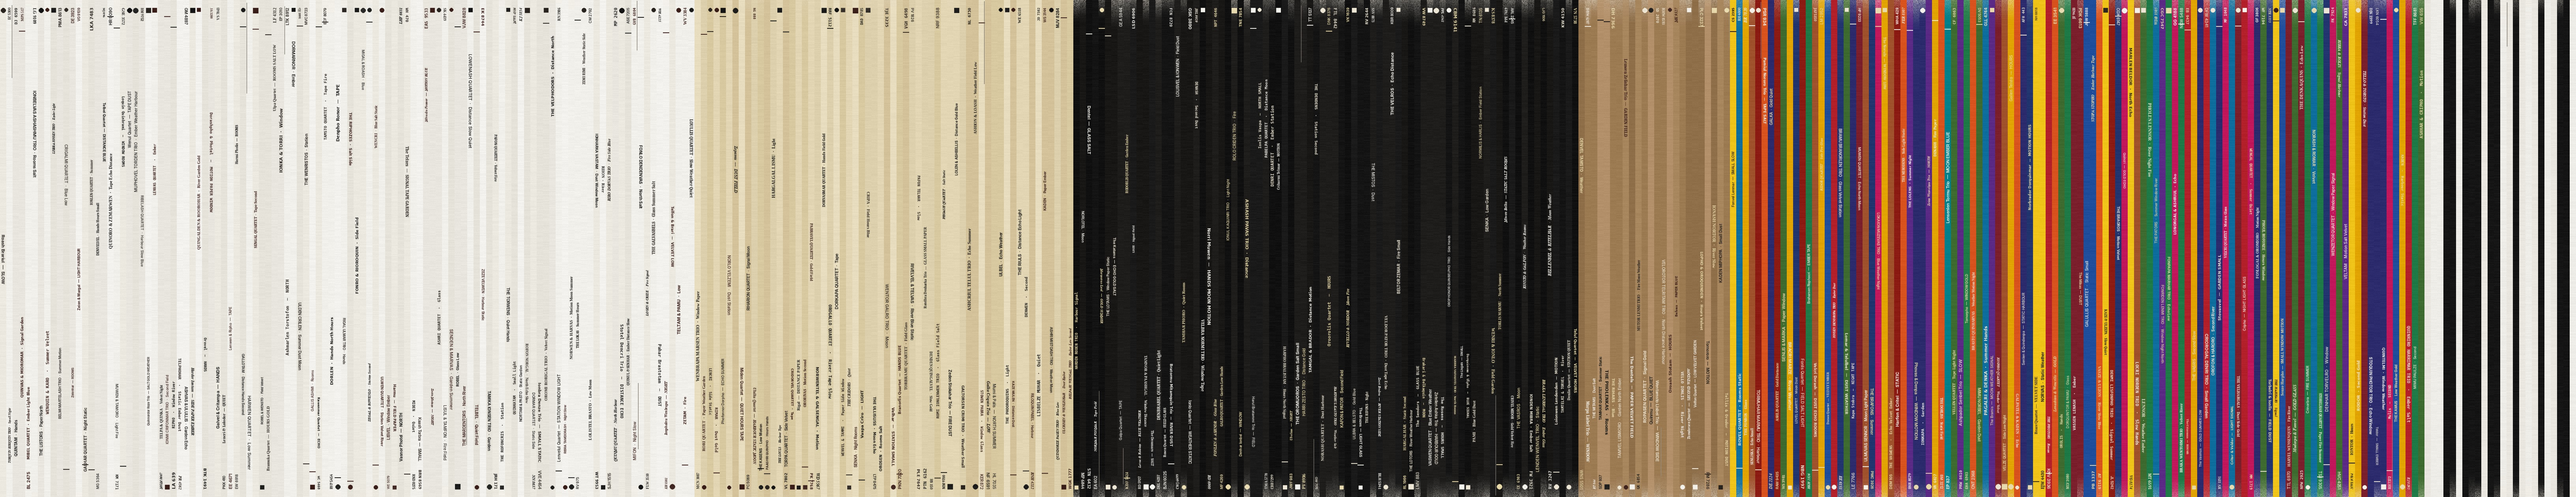
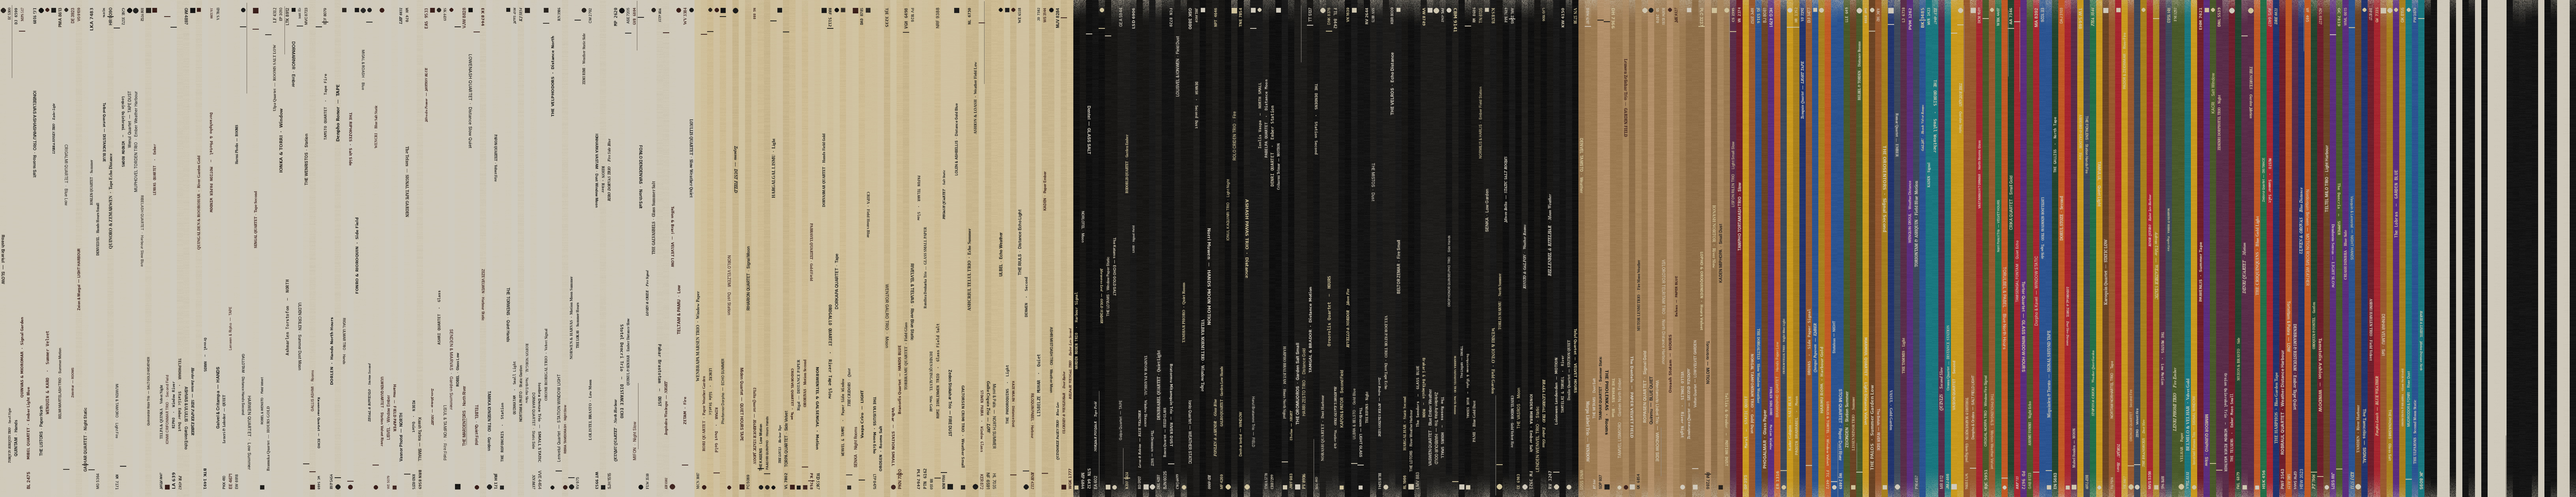
Planet bar wall: the whites aged (no spine above albedo 0.70, warm), half the printed colours muted or dark; the hero's wall heads only at 0.6 (centre) and 0.45 (right), to be proofed
Claude-Session: https://claude.ai/code/session_01CsZ9sPVytkpnrfV4BgTgfB

diff --git a/spinoffs/barkhorn/campaign/bar_life/record_wall.py b/spinoffs/barkhorn/campaign/bar_life/record_wall.py
@@ -182,7 +182,7 @@ def build(bpy, name, p, kit):
     print('RECORD WALL took over', len(cells), 'cells; removed', gone)
 
     B = Boxes(ncol)
-    mats = _atlas_mats(bpy) + [_plain(bpy, '#E9E5DB', 0.7), _plain(bpy, '#0E0E0E', 0.28)]   # 2 inner sleeve, 3 disc
+    mats = _atlas_mats(bpy) + [_plain(bpy, '#CFC9BA', 0.7), _plain(bpy, '#0E0E0E', 0.28)]   # 2 inner sleeve, 3 disc
     other = []                                               # (kind, xa, xb, z)
     order = sorted(cells); rnd.shuffle(order)
     n_other = max(1, round(len(order) * 0.125)); n_part = round(len(order) / 6); n_flat = round(len(order) / 12)
@@ -258,8 +258,8 @@ def _others(bpy, name, cells, rnd, yf, yb, idx, ncol, eye):
     """The cells that hold something else of a record room, in turn: a 7-inch box and singles, books and magazines,
     storage boxes, a face-out sleeve in front of records."""
     objs = []
-    cloth = ['#5A2A22', '#2E3A2E', '#6E5A3E', '#3A2E26', '#7A6448', '#2A2A30', '#5E4A36', '#8A3A2A', '#D8D0BE', '#1E1E1E']
-    mags = ['#C8102E', '#F2F0EA', '#1F4E9C', '#E2A400', '#141414', '#D9531E', '#2B6E4F']
+    cloth = ['#5A2A22', '#2E3A2E', '#6E5A3E', '#3A2E26', '#7A6448', '#2A2A30', '#5E4A36', '#8A3A2A', '#CFC6B2', '#1E1E1E']
+    mags = ['#C8102E', '#D9D3C4', '#1F4E9C', '#A8801E', '#141414', '#D9531E', '#2B6E4F']
     plain = {}
     def mat(h, r=0.7):
         return plain.setdefault((h, r), _plain(bpy, h, r))
@@ -278,12 +278,12 @@ def _others(bpy, name, cells, rnd, yf, yb, idx, ncol, eye):
         y0 = yf + 0.02
         if kind == 'seven':                                  # a 7-inch box, open top, singles in it; singles beside
             bx = xa + 0.004 if j % 8 < 4 else xb - 0.004 - 0.19
-            box(bx, bx + 0.19, y0 + 0.02, y0 + 0.25, z, z + 0.16, mat(rnd.choice(['#1A1A1A', '#B89A6E', '#E6E1D6']), 0.8))
+            box(bx, bx + 0.19, y0 + 0.02, y0 + 0.25, z, z + 0.16, mat(rnd.choice(['#1A1A1A', '#B89A6E', '#D2CCBE']), 0.8))
             s = (bx + 0.19 + 0.006) if bx < (xa + xb) / 2 else xa + 0.004
             e = xb - 0.004 if bx < (xa + xb) / 2 else bx - 0.006
             while s < e - 0.003:
                 t = rnd.uniform(0.0012, 0.0022)
-                box(s, s + t, y0 + 0.03, y0 + 0.21, z, z + 0.18, mat(rnd.choice(['#EFEDE7', '#141414', '#D9C9A0', '#B3202A', '#1F4E9C', '#E6E3DA'])))
+                box(s, s + t, y0 + 0.03, y0 + 0.21, z, z + 0.18, mat(rnd.choice(['#D6D0C2', '#141414', '#D9C9A0', '#B3202A', '#1F4E9C', '#D4CEBF'])))
                 s += t + rnd.uniform(0.0002, 0.001)
         elif kind == 'books':                                # books, and magazines lying flat on one end
             s = xa + 0.004; e = xb - (0.0 if j % 3 else 0.12)
@@ -299,7 +299,7 @@ def _others(bpy, name, cells, rnd, yf, yb, idx, ncol, eye):
                 box(e + 0.004, xb - 0.004, yb - 0.24, yb - 0.01, zz, zz + t, mat(rnd.choice(mags), 0.35))
                 zz += t
         elif kind == 'boxes':                                # storage boxes with lids, kraft or black
-            c = rnd.choice(['#A8865E', '#141414', '#9C7A52', '#E6E1D6'])
+            c = rnd.choice(['#A8865E', '#141414', '#9C7A52', '#D2CCBE'])
             if rnd.random() < 0.5:
                 box(xa + 0.004, xb - 0.004, y0, yb - 0.01, z, z + 0.26, mat(c, 0.85))
                 box(xa + 0.002, xb - 0.002, y0 - 0.002, yb - 0.008, z + 0.26, z + 0.30, mat(c, 0.8))
@@ -316,11 +316,11 @@ def _others(bpy, name, cells, rnd, yf, yb, idx, ncol, eye):
             from bar_life import boards
             objs += boards(bpy, f'{name}-face{j}', {'boards': [{'image': path, 'w': 0.315, 'h': 0.315, 't': 0.003,
                                                                'x': (xa + xb) / 2, 'y': yf + 0.05, 'z': z, 'rot': [-6.0, 0, 0],
-                                                               'ground': '#E9E3D6', 'rough': 0.6}]}, None)
+                                                               'ground': '#D6CFC0', 'rough': 0.6}]}, None)
             s = xa + 0.003
             while s < xb - 0.006:
                 t = rnd.uniform(0.003, 0.0045)
-                box(s, s + t, yf + 0.09, yb - 0.004, z, z + 0.314, mat(rnd.choice(['#F2F0EA', '#141414', '#E3D6B4', '#1F4E9C', '#B3202A']), 0.6))
+                box(s, s + t, yf + 0.09, yb - 0.004, z, z + 0.314, mat(rnd.choice(['#D9D3C4', '#141414', '#D6C8A6', '#22356F', '#6E1F2B']), 0.6))
                 s += t + 0.0005
     me = bpy.data.meshes.new(f'{name}-other'); bm.to_mesh(me); bm.free()
     for m in used:

diff --git a/spinoffs/barkhorn/campaign/bar_life/make_spines.py b/spinoffs/barkhorn/campaign/bar_life/make_spines.py
@@ -23,14 +23,16 @@ FONTS = ['/usr/share/fonts/opentype/inter/Inter-Bold.otf', '/usr/share/fonts/ope
 FONTS = [f for f in FONTS if os.path.exists(f)]
 
 # (category, share, grounds): the brief's shares; 'thin' are the singles, drawn without type
-CATS = [('white', 0.30, ['#F2F0EA', '#ECE9E1', '#E6E3DA', '#F4F2EE', '#E9E6DF']),
-        ('cream', 0.15, ['#E3D6B4', '#D9C9A0', '#E8DDBE', '#D4C29A', '#DDD0AC']),
+# (the coordinator, 21:22: the whites aged, none above albedo 0.70 and slightly warm; half the printed colours muted
+# or dark, fewer candy primaries)
+CATS = [('white', 0.30, ['#D9D3C4', '#D4CEBF', '#DBD6C9', '#CFC8B7', '#D6D0C1']),
+        ('cream', 0.15, ['#D6C8A6', '#CDBC94', '#D9CCA9', '#C8B68E', '#D2C39E']),
         ('black', 0.22, ['#141414', '#1A1A1A', '#101010', '#1E1D1C', '#181716']),
         ('kraft', 0.05, ['#A8865E', '#9C7A52', '#B39069', '#8F6F4A']),
-        ('colour', 0.28, ['#B3202A', '#1F4E9C', '#E2A400', '#1E7A46', '#D9531E', '#5B2A86', '#00808A', '#7A1F2B',
-                          '#22356F', '#C2185B', '#3E6B2F', '#A0522D', '#0E6E9E', '#8C1C13', '#F0C419', '#2B2B6E'])]
+        ('colour', 0.28, ['#A82630', '#2A5592', '#C99A1E', '#24704A', '#C25A26', '#5B2E80', '#1A7880', '#9A5A30',
+                          '#22356F', '#6E1F2B', '#24452F', '#A8801E', '#6B4426', '#3E4A5C', '#5A2E4A', '#4A5A2A'])]
 INK_DARK = ['#141414', '#1C1C1C', '#2A2420', '#3A1E1A']
-INK_LIGHT = ['#F4F2EC', '#EDE6D4', '#E8D9A8']
+INK_LIGHT = ['#D8D2C4', '#D4CBB4', '#D6C99E']
 
 SYL = ['ka', 'ro', 'mi', 'len', 'dor', 'vas', 'tel', 'ion', 'bra', 'mu', 'sen', 'har', 'lo', 'quin', 'ze', 'pa', 'nor',
        'vel', 'ash', 'tor', 'bel', 'cri', 'fon', 'gal', 'ri', 'sto', 'wen', 'ul', 'mar', 'den', 'pho', 'lis', 'tam', 'oro']
@@ -125,7 +127,7 @@ def spine(k, cat, grounds, rnd):
                     for x in range(WPX):
                         if rnd.random() < 0.85:
                             r, gg, b = px[x, yy]; t = f * rnd.uniform(0.5, 1.2)
-                            px[x, yy] = (int(r + (238 - r) * t), int(gg + (232 - gg) * t), int(b + (220 - b) * t))
+                            px[x, yy] = (int(r + (214 - r) * t), int(gg + (206 - gg) * t), int(b + (188 - b) * t))
     if rnd.random() < 0.05:
         d = ImageDraw.Draw(im); y0 = rnd.choice([rnd.randint(0, 30), LPX - rnd.randint(120, 300)]); L = rnd.randint(60, 260)
         x = rnd.choice([1, WPX - 2])
@@ -140,13 +142,17 @@ def main():
     atlas = Image.new('RGB', (WPX * sum(per.values()), LPX))
     index = {}; col = 0
     grounds = {c: g for c, _, g in CATS}
-    grounds['thin'] = ['#141414', '#151515', '#EFEDE7', '#E9E7E0']
+    grounds['thin'] = ['#141414', '#151515', '#D6D0C2', '#D2CCBE']
     for cat in ('white', 'cream', 'black', 'kraft', 'colour', 'thin'):
         index[cat] = []
         for j in range(per[cat]):
             atlas.paste(spine(col, cat, grounds[cat], rnd), (col * WPX, 0))
             index[cat].append(col); col += 1
-    atlas.save(os.path.join(OUT, 'spines.jpg'), quality=93)
+    import numpy as np
+    a = np.asarray(atlas).astype(np.float32); m = a.max(axis=2, keepdims=True)
+    a = np.where(m > 208.0, a * (208.0 / np.maximum(m, 1.0)), a)        # no spine above albedo 0.70 (208: room for the JPEG's ringing)
+    atlas = Image.fromarray(a.round().astype(np.uint8))
+    atlas.save(os.path.join(OUT, 'spines.jpg'), quality=94, subsampling=0)
     json.dump({'wpx': WPX, 'lpx': LPX, 'n': col, 'index': index,
                'shares': {c: s for c, s, _ in CATS}}, open(os.path.join(OUT, 'spines.json'), 'w'), indent=1)
     print('spines', col, atlas.size, os.path.getsize(os.path.join(OUT, 'spines.jpg')) // 1024, 'KB')

diff --git a/spinoffs/barkhorn/campaign/planet_bar.py b/spinoffs/barkhorn/campaign/planet_bar.py
@@ -480,6 +480,11 @@ def bar_hero():
         if k_ in s['lights']:
             ps = list(s['lights'][k_]['position']); ps[1] = HERO_BAY_HEAD_Y
             s['lights'][k_] = {**s['lights'][k_], 'position': ps, 'irradiance': HERO_BAY_IRR[k_]}
+    # (the coordinator, 21:22: the new record wall outshone the speakers: the wall heads' power only, back to the
+    # approved hero's levels on the wall; the bay heads and the speakers as they are)
+    for k_, f_ in HERO_WALL_GAIN.items():
+        if k_ in s['lights']:
+            s['lights'][k_] = {**s['lights'][k_], 'irradiance': round(s['lights'][k_]['irradiance'] * f_, 3)}
     # (the coordinator, 03:46, full size: from 4.7 the heads washed the linings, 6-9 % of each cabinet clipped; lower,
     # to test 1's level. Nothing but shelves cut by the side edges: the room's own glasses (a coupe at the left edge, a
     # rocks glass at the right) out, and the now-playing sleeve and its stand, cut by the right edge, out as in the
@@ -513,6 +518,7 @@ HERO_EYE_Y = 2.2     # (test 2: from 2.5)
 HERO_AIM_Z = 1.85    # (test 2: from 1.55; with 'level' the engine shifts rather than tilts)
 HERO_WALL_AIM_Z = 1.45   # (test 2: from 1.7)
 HERO_BAY_HEAD_Y = 4.7    # (test 2: from 5.27, out of frame)
+HERO_WALL_GAIN = {'track-wall0': 0.6, 'track-wall1': 0.6, 'track-wall2': 0.6, 'track-wall3': 0.45, 'track-wall4': 0.45}
 HERO_BAY_IRR = {'track-bay0': 2.0, 'track-bay1': 0.8}   # (full size: from 16.5, W/m2 at the target; proofed on crops: 8 still
 #   washed the linings; off, they read 53 / 0.77 / 0.28; the right lining, seen more from the front, takes less for the same look)
 
